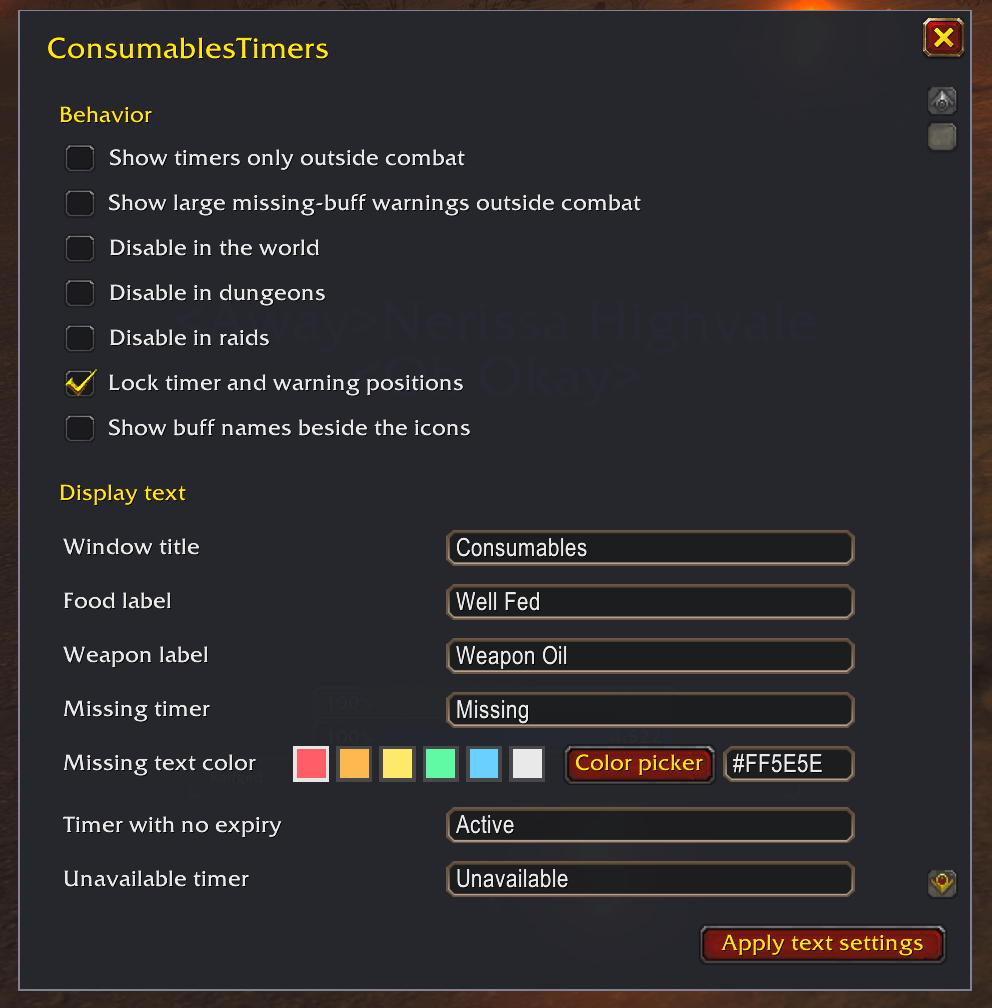
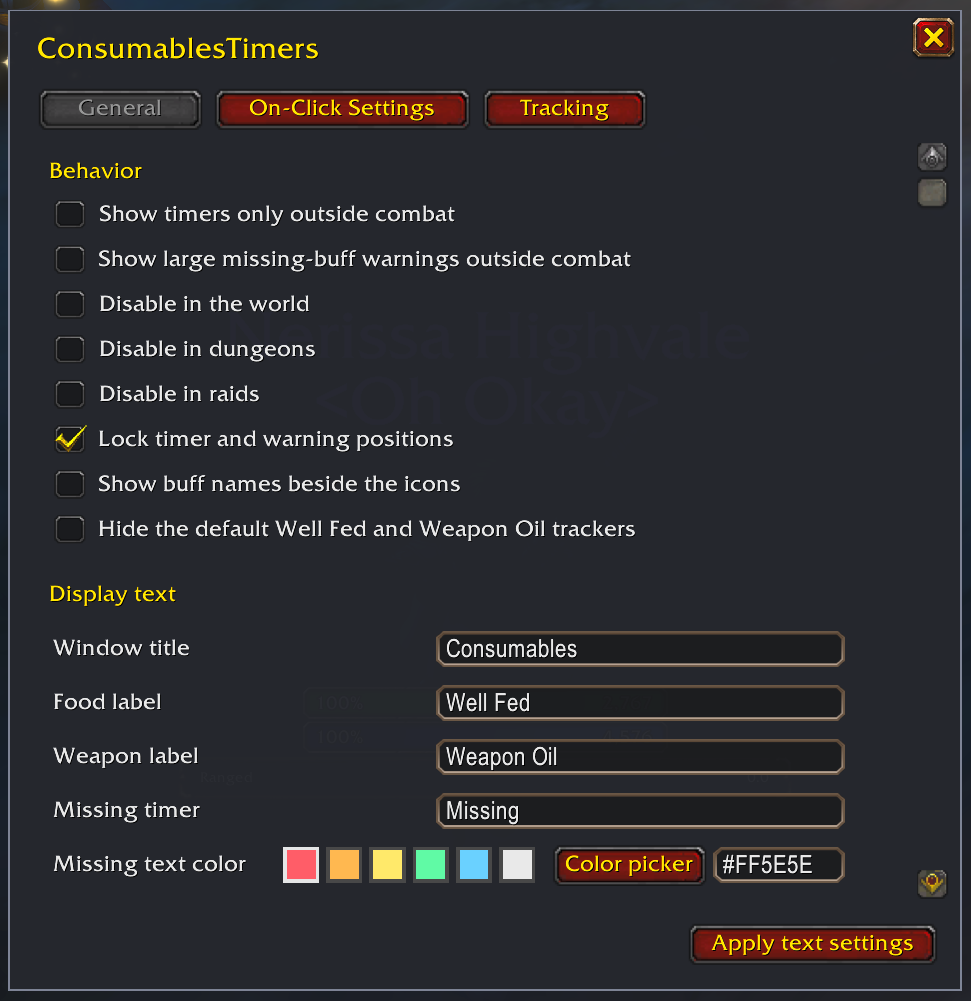
Refresh addon documentation and screenshots

diff --git a/README.md b/README.md
@@ -1,69 +1,84 @@
 # ConsumablesTimers
 
-A compact in-game window for **World of Warcraft: Forever** that shows your Well Fed and temporary weapon effect timers. Track more buffs with a slash command and enable a large reminder for missing buffs outside combat.
+A compact timer and click-to-use window for **World of Warcraft: Forever**. Keep an eye on Well Fed, weapon enhancements, and any extra buffs you choose to track.
 
-<img src="images/default-wellfed-oilmissing.png" alt="ConsumablesTimers showing 14 minutes and 57 seconds of Well Fed remaining and Weapon Oil marked Missing in red" width="272">
+[Install](#install) · [Track buffs](#track-buffs) · [On-Click Settings](#on-click-settings) · [Customize](#customize) · [Commands](#commands)
+
+<p align="center">
+  <img src="images/default-wellfed-oilmissing.png" alt="Timer window with Consumables and Personal sections, food and weapon counters, and a personal buff marked Missing" width="262">
+</p>
 
 ## Install
 
 1. On GitHub, select **Code → Download ZIP** and extract it.
-2. Open the extracted project and copy the inner [`ConsumablesTimers`](ConsumablesTimers/) folder into your WoW Forever `Interface\AddOns` folder. After copying, check for this file.
+2. Copy the inner [`ConsumablesTimers`](ConsumablesTimers/) folder into your WoW Forever `Interface\AddOns` folder. Check for the TOC at this path.
 
    ```text
    World of Warcraft\_forever_\Interface\AddOns\ConsumablesTimers\ConsumablesTimers.toc
    ```
 
-3. Launch Forever or type `/reload` if it is already open, then enter `/ct` to open settings.
+3. Launch Forever or type `/reload` if it is already open. Enter `/ct` to open settings.
 
-## Customize the display
+## Track buffs
 
-- **Timers** appear in and out of combat by default. You can hide them during combat or mute the addon in the world, dungeons, and raids independently.
-- **Default trackers** for Well Fed and Weapon Oil are grouped under **Consumables**. Use **Hide the default Well Fed and Weapon Oil trackers** in `/ct` to hide both.
-- **Missing** appears in red by default. Choose a preset swatch, open the color picker, or enter a hex code. You can also edit labels, text, fonts, and sizes. Select **Apply text settings** to save those changes.
-- **Warnings** can show a large message when tracked buffs are missing outside combat.
-- **The padlock** in the upper-right corner lets you move the timer window and warning. The padlock hides and settings are locked during combat.
+**Well Fed** and **Weapon Oil** are tracked by default under **Consumables**. The weapon timer shows the longest remaining temporary effect across equipped weapons, including oils, stones, poisons, and imbues.
 
-<img src="images/main-ct-menu.png" alt="The ConsumablesTimers settings panel with combat and zone options, editable display labels, and missing-text color swatches" width="600">
+1. Open `/ct tracking` or choose **Tracking** in `/ct`.
+2. Under **Active buffs**, choose a category and click the green checkmark next to a faded row. To add a buff by ID, enter its **aura spell ID**, choose a category, and click **Track** or press Enter. For example, Well-Rested is `429959`.
+3. Use a tracked row’s dropdown to move it between **Consumables**, **Party & Raid**, and **Personal**. Each populated category gets its own section in the timer window. Click **X** to remove a tracked buff. If it is still active, it returns to the faded list.
 
-The weapon row displays the longest remaining temporary effect across equipped weapons, including oils, stones, poisons, and imbues. When WoW restricts access to a timer, its row shows **In Combat** during combat and **Unavailable** outside combat.
+Each row shows the buff icon, spell name, and spell ID. **Config** returns to your previous settings tab.
 
-<img src="images/consumables-in-combat.png" alt="The Consumables window in combat with two buff rows marked In Combat and the weapon effect timer showing 23 minutes and 29 seconds" width="297">
+<img src="images/ct-tracking.png" alt="Tracked Spells window with category dropdowns, tracked Well-Rested and Camp Benefits, green checkmarks beside active buffs, and the Config button" width="760">
 
-## Track another buff
+## On-Click Settings
 
-Open `/ct tracking` or select the **Tracking** tab in `/ct` to see each added spell's icon, name, and ID. Click **Config** at the top of the tracking window to return to settings.
+In `/ct` → **On-Click Settings**, set **Food**, **Flask**, and **Weapon** for your Primary spec. The Secondary spec pickers appear after you purchase that spec. Choices are saved per character and switch with your active spec.
 
-Under **Active buffs**, click the green checkmark beside a faded row to start tracking it. You can also enter a **buff aura** ID and click **Track** or press Enter. Click the **X** next to a tracked spell to remove it.
+**Auto** picks the item in your bags with the highest **Required Level** you meet. You can choose an item manually or select **None** to disable its shortcut. The Weapon picker includes oils such as Lesser Mana Oil and Wizard Oil, sharpening stones, weightstones, and other temporary enhancements.
 
-Use the category dropdown to place a spell in **Consumables**, **Party & Raid**, or **Personal**. Each populated category has its own section in the timer window. Existing tracked spells start in **Personal** unless you assign them to another category.
+<img src="images/on-click-tab.png" alt="On-Click Settings with Primary and Secondary spec pickers for food, flasks, and weapon enhancements, including Spotted Yellowtail and Lesser Mana Oil" width="600">
 
-<img src="images/ct-tracking.png" alt="The Tracked Spells window showing Well-Rested (429959) above faded active buffs with green checkmarks to add them" width="600">
+Lock the timer window to use its icons outside combat.
 
-Using `/ct` or `/ct tracking` in combat shows a warning to open the window after combat.
+| Icon | Click action | Bag count |
+| --- | --- | --- |
+| **Well Fed** | Use your chosen food. | Total items on the icon. |
+| **Weapon Oil** | Left-click to apply to the main hand. Right-click to apply to the off hand. | Total remaining uses on the icon. Two oils with five charges each show **10**. |
+| **Flask** | Use your chosen flask. Add its aura ID in **Tracking** for a buff countdown. | Total items in the row. |
+| **Tracked spell** | Cast a known, non-passive helpful spell on yourself. | |
 
-You can also add an ID from chat. For example, enter `/ct add 429959` to track spell `429959`.
+Food and weapon counts are **green** at 21 or more, **yellow** at 2–20, and **red** at 0–1.
 
-<img src="images/now-tracking-spell-id.png" alt="Chat confirmation that ConsumablesTimers is now tracking spell 429959" width="447">
+## Customize
 
-Well-Rested (`429959`) gets its own row below the two default timers.
+Open `/ct` → **General** to adjust the timer window.
 
-<img src="images/wellfed-oilmissing-customid-wellrested.png" alt="ConsumablesTimers showing the default Well Fed timer, missing Weapon Oil, and a third countdown for Well-Rested" width="277">
+- **Visibility** can be limited to out-of-combat play. You can also hide the default Well Fed and Weapon Oil rows or mute the addon independently in the world, dungeons, and raids.
+- **Missing-buff warnings** can display a large message outside combat. The **Missing** timer text starts red. Pick a swatch, use the color picker, or enter a hex code to change it.
+- **Display text** lets you edit the title, labels, status and warning wording, and text appearance. Click **Apply text settings** to save.
+- **Positioning** uses the padlock in the upper-right corner of the timer window. Unlock it to drag the timer or warning and lock it again to enable icon clicks.
+
+<img src="images/main-ct-menu.png" alt="General settings with the On-Click Settings and Tracking tabs, visibility and position controls, and missing-text color swatches" width="600">
+
+### During combat
+
+Timers stay visible by default. When WoW restricts access to a timer, the row reads **In Combat**. Outside combat, restricted timer data reads **Unavailable**. If you try `/ct` or `/ct tracking` in combat, the addon shows an on-screen and chat warning asking you to leave combat.
+
+<img src="images/consumables-in-combat.png" alt="Timer window showing In Combat on two restricted buff rows while the weapon enhancement countdown remains visible" width="297">
+
+## Commands
 
 | Command | Action |
 | --- | --- |
-| `/ct` | Open settings. |
-| `/ct tracking` | Open the window for adding and removing tracked spell IDs. |
+| `/ct` or `/ct options` | Open settings. |
+| `/ct tracking` | Open the tracked spells window. |
 | `/ct add <spellID>` | Track a buff by its aura spell ID. |
 | `/ct remove <spellID>` | Remove an added buff. |
-| `/ct label <spellID> <text>` | Change an added buff's display label. Omit the text to reset it. |
+| `/ct label <spellID> <text>` | Rename an added buff. Use `wellfed` or `weapon` for the built-in labels. Omit the text to reset the label. |
 | `/ct list` | List tracked buffs. |
 | `/ct lock` or `/ct unlock` | Lock or unlock the timer and warning positions. |
 | `/ct resetposition` | Restore the timer and warning positions. |
+| `/ct help` | List commands in chat. |
 
-## Click items and spells
-
-1. Open `/ct` and choose **On-Click Settings**. For each shortcut, **Auto** picks the item in your bags with the highest **Required Level** you meet. Pick a specific item to override Auto, or choose **None** to disable that shortcut.
-2. Set your **Primary spec** choices. The **Weapon** picker includes oils such as Lesser Mana Oil, sharpening stones, and other temporary enhancements. A **Secondary spec** section appears after you purchase it. The addon saves each spec's choices for this character.
-3. Lock the timer window. Outside combat, click the Well Fed or Flask icon to use the item, or click a known, non-passive helpful spell to cast it on yourself. Left-click the Weapon Oil icon for your main hand and right-click it for your off hand.
-
-The food icon shows the item count. The weapon icon shows total uses across the selected oils or stones in your bags. Two oils with five charges each show **10**. Both counts are green at 21 or more, yellow at 2–20, and red at 0–1. The Flask row shows how many of the selected flask you have. To track a flask buff's duration, add its aura spell ID in `/ct tracking`.
+See the [changelog](CHANGELOG.md) for version history.
